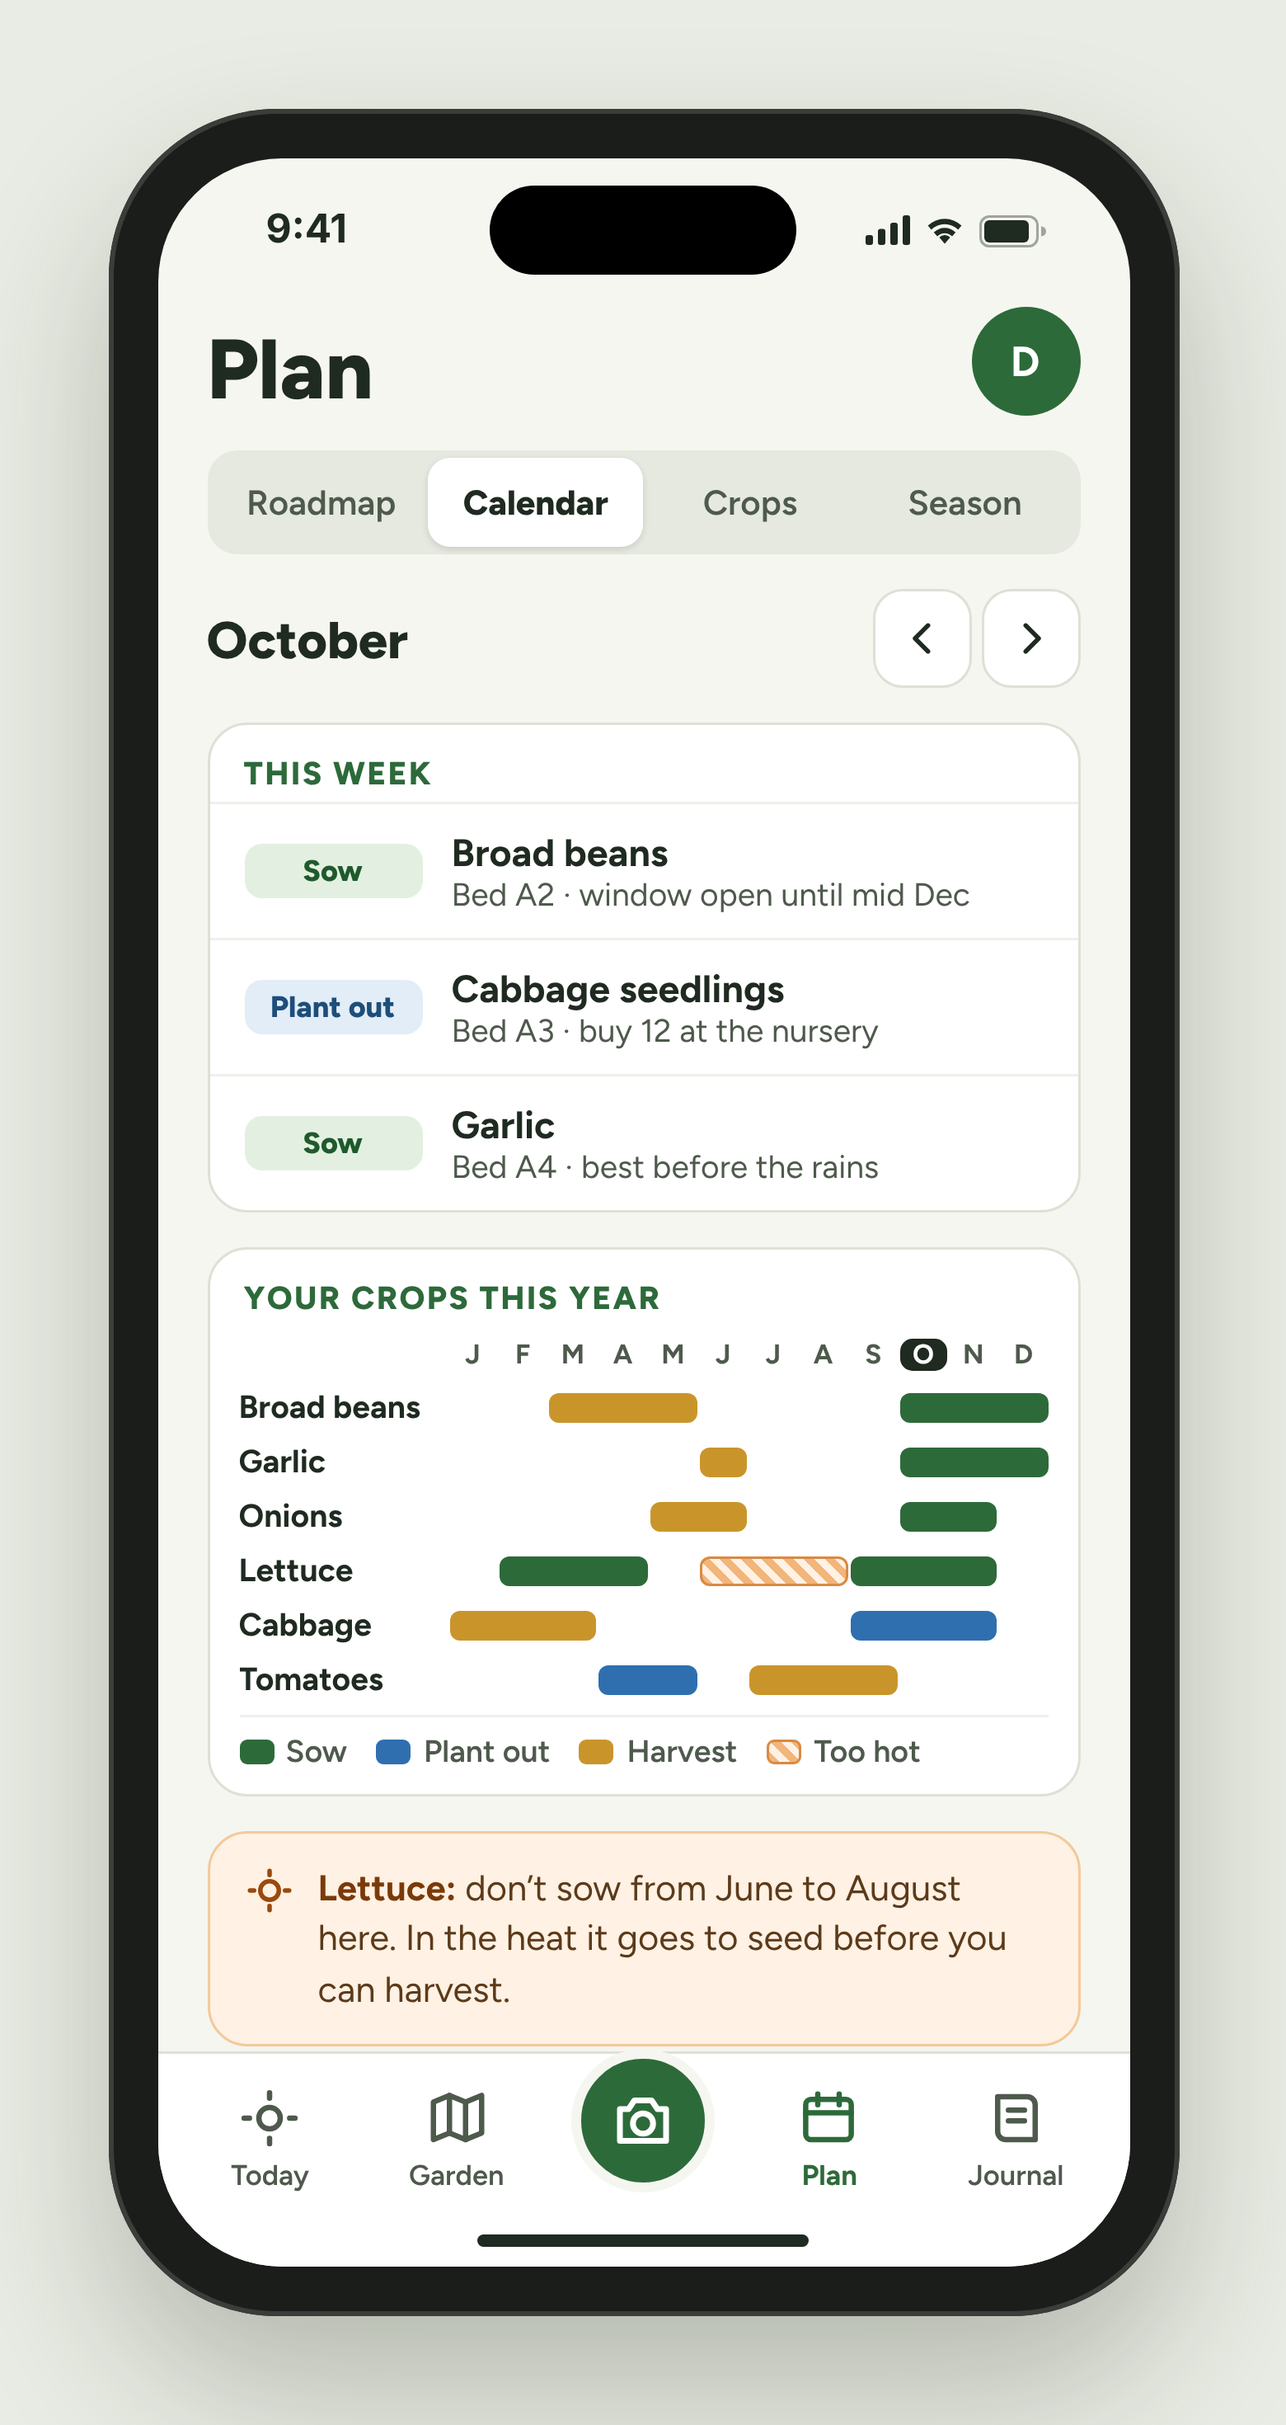
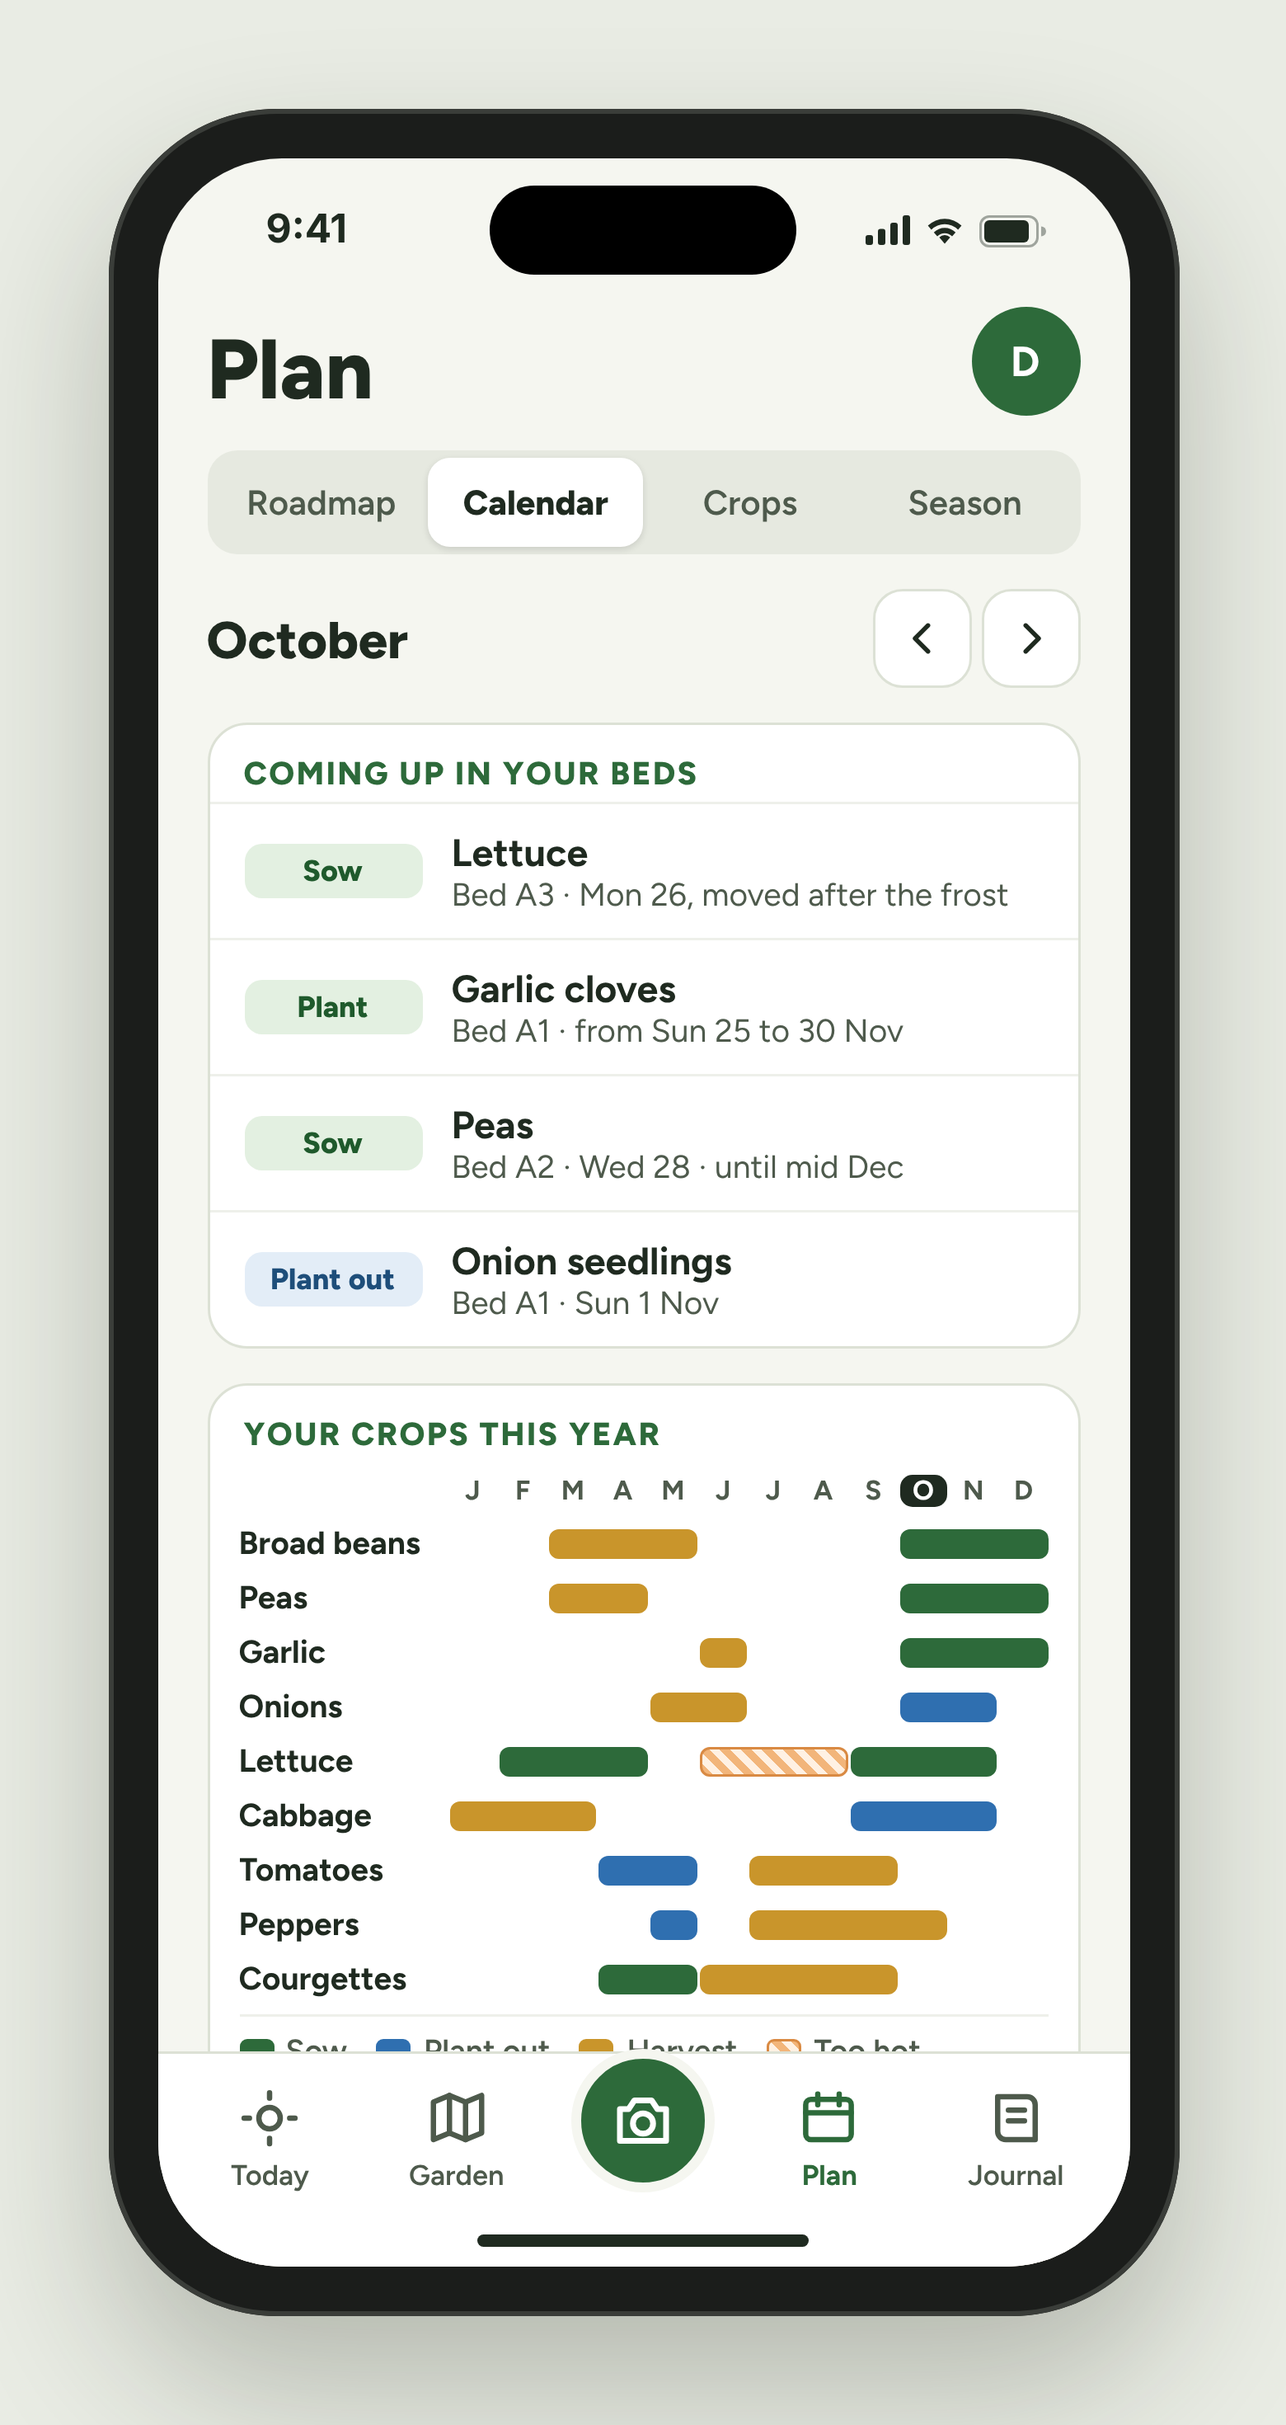
Design E3 planting calendar: coming-up list matches the beds, all chosen crops in the year chart, onions as plant out
Claude-Session: https://claude.ai/code/session_015NynAjU4naPZwzmeuGazot

diff --git a/design/source/E3-planting-calendar-full.html b/design/source/E3-planting-calendar-full.html
@@ -1,0 +1,127 @@
+<!doctype html>
+<html lang="en">
+<head>
+<meta charset="utf-8">
+<title>E3 Planting calendar</title>
+<link href="https://fonts.googleapis.com/css2?family=Figtree:wght@400;500;600;700;800&display=swap" rel="stylesheet">
+<link rel="stylesheet" href="frame.css">
+<style>
+  .content { flex: 1; padding: 6px 20px 120px; display: flex; flex-direction: column; gap: 14px; overflow: hidden; }
+  .head { display: flex; justify-content: space-between; align-items: flex-end; }
+  .head h1 { margin: 0; font-size: 34px; font-weight: 800; line-height: 1.1; }
+  .avatar { width: 44px; height: 44px; border-radius: 999px; background: var(--green); color: #fff; font-size: 17px; font-weight: 700; display: flex; align-items: center; justify-content: center; }
+  .seg { display: grid; grid-template-columns: repeat(4, minmax(0, 1fr)); background: #E6E9E0; border-radius: 12px; padding: 3px; }
+  .seg span { height: 36px; display: flex; align-items: center; justify-content: center; border-radius: 9px; font-size: 14px; font-weight: 600; color: var(--muted); }
+  .seg span.on { background: #fff; color: var(--text); font-weight: 800; box-shadow: 0 1px 3px rgba(0,0,0,.12); }
+  .month { display: flex; align-items: center; justify-content: space-between; }
+  .month b { font-size: 21px; font-weight: 800; }
+  .arrows { display: flex; gap: 4px; }
+  .arrows span { width: 40px; height: 40px; border-radius: 12px; background: #fff; border: 1px solid var(--line); display: flex; align-items: center; justify-content: center; }
+  .card { background: #fff; border: 1px solid var(--line); border-radius: 16px; display: flex; flex-direction: column; }
+  .card .ttl { padding: 12px 14px 4px; font-size: 13px; font-weight: 800; letter-spacing: .06em; text-transform: uppercase; color: var(--green); }
+  .item { display: flex; align-items: center; gap: 12px; padding: 10px 14px; border-top: 1px solid #EEF0EA; }
+  .item:first-of-type { border-top: none; }
+  .kind { font-size: 12px; font-weight: 800; padding: 4px 6px; border-radius: 7px; width: 72px; white-space: nowrap; text-align: center; flex: none; }
+  .sow { background: var(--green-soft); color: var(--green-ink); }
+  .out { background: var(--blue-soft); color: var(--blue-ink); }
+  .item .t { font-size: 15.5px; font-weight: 700; }
+  .item .m { font-size: 13px; color: var(--muted); }
+  .gantt { background: #fff; border: 1px solid var(--line); border-radius: 16px; padding: 12px 12px 10px; display: flex; flex-direction: column; gap: 7px; }
+  .grow { display: grid; grid-template-columns: 84px repeat(12, minmax(0, 1fr)); align-items: center; column-gap: 1px; }
+  .grow .name { font-size: 13px; font-weight: 700; white-space: nowrap; overflow: hidden; }
+  .mh span { font-size: 11px; font-weight: 700; color: var(--muted); text-align: center; }
+  .mh span.now { color: #fff; background: var(--text); border-radius: 5px; }
+  .bar { height: 12px; border-radius: 4px; }
+  .b-sow { background: #2D6A3A; }
+  .b-out { background: #2F6FB0; }
+  .b-har { background: #C9952B; }
+  .b-hot { height: 12px; border-radius: 4px; background: repeating-linear-gradient(45deg, #F2B57A 0 3px, #FFF1E3 3px 6px); border: 1px solid #D98A43; }
+  .legend { display: flex; flex-wrap: wrap; gap: 6px 12px; padding-top: 6px; border-top: 1px solid #EEF0EA; }
+  .legend span { display: flex; align-items: center; gap: 5px; font-size: 12.5px; font-weight: 600; color: var(--muted); }
+  .legend i { width: 14px; height: 10px; border-radius: 3px; display: inline-block; }
+  .tabbar { position: absolute; bottom: 0; left: 0; right: 0; background: #fff; border-top: 1px solid var(--line); padding: 8px 8px 30px; display: grid; grid-template-columns: repeat(5, minmax(0, 1fr)); align-items: end; z-index: 45; }
+  .tab { color: var(--muted); display: flex; flex-direction: column; align-items: center; gap: 3px; font-size: 11.5px; font-weight: 600; min-height: 48px; justify-content: flex-end; }
+  .tab.on { color: var(--green); font-weight: 700; }
+  .cam { display: flex; justify-content: center; }
+  .cam span { width: 58px; height: 58px; border-radius: 999px; background: var(--green); display: flex; align-items: center; justify-content: center; margin-top: -22px; border: 4px solid var(--bg); }
+</style>
+<style>.stage{height:1110px}.phone{height:1050px}.screen{height:1010px}</style>
+</head>
+<body>
+<div class="stage"><div class="phone"><div class="screen">
+  <div class="island"></div>
+  <div class="status">
+    <span>9:41</span>
+    <span class="icons">
+      <svg width="18" height="12" viewBox="0 0 18 12"><rect x="0" y="8" width="3" height="4" rx="1" fill="#1F2A20"/><rect x="5" y="5.5" width="3" height="6.5" rx="1" fill="#1F2A20"/><rect x="10" y="3" width="3" height="9" rx="1" fill="#1F2A20"/><rect x="15" y="0" width="3" height="12" rx="1" fill="#1F2A20"/></svg>
+      <svg width="16" height="12" viewBox="0 0 16 12"><path d="M8 11.5l2.2-2.6a3.2 3.2 0 0 0-4.4 0z" fill="#1F2A20"/><path d="M3.6 6.9a6.3 6.3 0 0 1 8.8 0l-1.4 1.6a4.2 4.2 0 0 0-6 0z" fill="#1F2A20"/><path d="M1.2 4.2a9.7 9.7 0 0 1 13.6 0l-1.4 1.6a7.6 7.6 0 0 0-10.8 0z" fill="#1F2A20"/></svg>
+      <svg width="27" height="13" viewBox="0 0 27 13"><rect x="0.5" y="0.5" width="23" height="12" rx="3.5" fill="none" stroke="#1F2A20" opacity=".4"/><rect x="2" y="2" width="18" height="9" rx="2" fill="#1F2A20"/><path d="M25 4.5v4a2 2 0 0 0 0-4z" fill="#1F2A20" opacity=".4"/></svg>
+    </span>
+  </div>
+
+  <div class="content">
+    <div class="head"><h1>Plan</h1><div class="avatar">D</div></div>
+    <div class="seg"><span>Roadmap</span><span class="on">Calendar</span><span>Crops</span><span>Season</span></div>
+
+    <div class="month">
+      <b>October</b>
+      <div class="arrows">
+        <span aria-label="Previous month"><svg width="18" height="18" viewBox="0 0 24 24" fill="none" stroke="#1F2A20" stroke-width="2.4" stroke-linecap="round" stroke-linejoin="round"><path d="M15 5l-7 7 7 7"/></svg></span>
+        <span aria-label="Next month"><svg width="18" height="18" viewBox="0 0 24 24" fill="none" stroke="#1F2A20" stroke-width="2.4" stroke-linecap="round" stroke-linejoin="round"><path d="M9 5l7 7-7 7"/></svg></span>
+      </div>
+    </div>
+
+    <div class="card">
+      <div class="ttl">Coming up in your beds</div>
+      <div class="item"><span class="kind sow">Sow</span><div><div class="t">Lettuce</div><div class="m">Bed A3 · Mon 26, moved after the frost</div></div></div>
+      <div class="item"><span class="kind sow">Plant</span><div><div class="t">Garlic cloves</div><div class="m">Bed A1 · from Sun 25 to 30 Nov</div></div></div>
+      <div class="item"><span class="kind sow">Sow</span><div><div class="t">Peas</div><div class="m">Bed A2 · Wed 28 · until mid Dec</div></div></div>
+      <div class="item"><span class="kind out">Plant out</span><div><div class="t">Onion seedlings</div><div class="m">Bed A1 · Sun 1 Nov</div></div></div>
+    </div>
+
+    <div class="gantt">
+      <div style="font-size: 13px; font-weight: 800; letter-spacing: .06em; text-transform: uppercase; color: var(--green); padding: 0 2px 2px">Your crops this year</div>
+      <div class="grow mh"><span></span><span>J</span><span>F</span><span>M</span><span>A</span><span>M</span><span>J</span><span>J</span><span>A</span><span>S</span><span class="now">O</span><span>N</span><span>D</span></div>
+      <div class="grow"><span class="name">Broad beans</span>
+        <span class="bar b-har" style="grid-column: 4 / 7"></span><span class="bar b-sow" style="grid-column: 11 / 14"></span></div>
+      <div class="grow"><span class="name">Peas</span>
+        <span class="bar b-har" style="grid-column: 4 / 6"></span><span class="bar b-sow" style="grid-column: 11 / 14"></span></div>
+      <div class="grow"><span class="name">Garlic</span>
+        <span class="bar b-har" style="grid-column: 7 / 8"></span><span class="bar b-sow" style="grid-column: 11 / 14"></span></div>
+      <div class="grow"><span class="name">Onions</span>
+        <span class="bar b-har" style="grid-column: 6 / 8"></span><span class="bar b-out" style="grid-column: 11 / 13"></span></div>
+      <div class="grow"><span class="name">Lettuce</span>
+        <span class="bar b-sow" style="grid-column: 3 / 6"></span><span class="b-hot" style="grid-column: 7 / 10"></span><span class="bar b-sow" style="grid-column: 10 / 13"></span></div>
+      <div class="grow"><span class="name">Cabbage</span>
+        <span class="bar b-har" style="grid-column: 2 / 5"></span><span class="bar b-out" style="grid-column: 10 / 13"></span></div>
+      <div class="grow"><span class="name">Tomatoes</span>
+        <span class="bar b-out" style="grid-column: 5 / 7"></span><span class="bar b-har" style="grid-column: 8 / 11"></span></div>
+      <div class="grow"><span class="name">Peppers</span>
+        <span class="bar b-out" style="grid-column: 6 / 7"></span><span class="bar b-har" style="grid-column: 8 / 12"></span></div>
+      <div class="grow"><span class="name">Courgettes</span>
+        <span class="bar b-sow" style="grid-column: 5 / 7"></span><span class="bar b-har" style="grid-column: 7 / 11"></span></div>
+      <div class="legend">
+        <span><i style="background:#2D6A3A"></i>Sow</span>
+        <span><i style="background:#2F6FB0"></i>Plant out</span>
+        <span><i style="background:#C9952B"></i>Harvest</span>
+        <span><i style="background: repeating-linear-gradient(45deg, #F2B57A 0 3px, #FFF1E3 3px 6px); border: 1px solid #D98A43"></i>Too hot</span>
+      </div>
+    </div>
+
+    <div style="background: var(--orange-soft); border: 1px solid #F3C99A; border-radius: 16px; padding: 12px 14px; display: flex; gap: 10px; align-items: flex-start">
+      <svg width="20" height="20" viewBox="0 0 24 24" fill="none" stroke="#9A4A0C" stroke-width="2.2" stroke-linecap="round" stroke-linejoin="round" style="flex: none; margin-top: 1px"><circle cx="12" cy="12" r="4.5"/><path d="M12 2.5v2M12 19.5v2M2.5 12h2M19.5 12h2"/></svg>
+      <div style="font-size: 14.5px; color: #5C3A1A; line-height: 1.4"><b style="color: #7A3A08">Lettuce:</b> don’t sow from June to August here. In the heat it goes to seed before you can harvest.</div>
+    </div>
+  </div>
+
+  <nav class="tabbar">
+    <div class="tab"><svg width="26" height="26" viewBox="0 0 24 24" fill="none" stroke="currentColor" stroke-width="2" stroke-linecap="round" stroke-linejoin="round"><circle cx="12" cy="12" r="4"/><path d="M12 2.5v2M12 19.5v2M2.5 12h2M19.5 12h2"/></svg>Today</div>
+    <div class="tab"><svg width="26" height="26" viewBox="0 0 24 24" fill="none" stroke="currentColor" stroke-width="2" stroke-linecap="round" stroke-linejoin="round"><path d="M3 6l6-2.5 6 2.5 6-2.5v14l-6 2.5-6-2.5-6 2.5z"/><path d="M9 3.5v14M15 6v14"/></svg>Garden</div>
+    <div class="cam"><span><svg width="28" height="28" viewBox="0 0 24 24" fill="none" stroke="#FFFFFF" stroke-width="2" stroke-linecap="round" stroke-linejoin="round"><path d="M4 8h3l2-3h6l2 3h3v11H4z"/><circle cx="12" cy="13" r="3.5"/></svg></span></div>
+    <div class="tab on"><svg width="26" height="26" viewBox="0 0 24 24" fill="none" stroke="currentColor" stroke-width="2" stroke-linecap="round" stroke-linejoin="round"><rect x="3.5" y="5" width="17" height="15" rx="2"/><path d="M3.5 10h17M8 3v4M16 3v4"/></svg>Plan</div>
+    <div class="tab"><svg width="26" height="26" viewBox="0 0 24 24" fill="none" stroke="currentColor" stroke-width="2" stroke-linecap="round" stroke-linejoin="round"><path d="M5 4h11a3 3 0 0 1 3 3v13H8a3 3 0 0 1-3-3z"/><path d="M9 9h6M9 13h6"/></svg>Journal</div>
+  </nav>
+  <div class="home"></div>
+</div></div></div>
+</body>
+</html>

diff --git a/design/source/E3-planting-calendar.html b/design/source/E3-planting-calendar.html
@@ -71,10 +71,11 @@
     </div>
 
     <div class="card">
-      <div class="ttl">This week</div>
-      <div class="item"><span class="kind sow">Sow</span><div><div class="t">Broad beans</div><div class="m">Bed A2 · window open until mid Dec</div></div></div>
-      <div class="item"><span class="kind out">Plant out</span><div><div class="t">Cabbage seedlings</div><div class="m">Bed A3 · buy 12 at the nursery</div></div></div>
-      <div class="item"><span class="kind sow">Sow</span><div><div class="t">Garlic</div><div class="m">Bed A4 · best before the rains</div></div></div>
+      <div class="ttl">Coming up in your beds</div>
+      <div class="item"><span class="kind sow">Sow</span><div><div class="t">Lettuce</div><div class="m">Bed A3 · Mon 26, moved after the frost</div></div></div>
+      <div class="item"><span class="kind sow">Plant</span><div><div class="t">Garlic cloves</div><div class="m">Bed A1 · from Sun 25 to 30 Nov</div></div></div>
+      <div class="item"><span class="kind sow">Sow</span><div><div class="t">Peas</div><div class="m">Bed A2 · Wed 28 · until mid Dec</div></div></div>
+      <div class="item"><span class="kind out">Plant out</span><div><div class="t">Onion seedlings</div><div class="m">Bed A1 · Sun 1 Nov</div></div></div>
     </div>
 
     <div class="gantt">
@@ -82,16 +83,22 @@
       <div class="grow mh"><span></span><span>J</span><span>F</span><span>M</span><span>A</span><span>M</span><span>J</span><span>J</span><span>A</span><span>S</span><span class="now">O</span><span>N</span><span>D</span></div>
       <div class="grow"><span class="name">Broad beans</span>
         <span class="bar b-har" style="grid-column: 4 / 7"></span><span class="bar b-sow" style="grid-column: 11 / 14"></span></div>
+      <div class="grow"><span class="name">Peas</span>
+        <span class="bar b-har" style="grid-column: 4 / 6"></span><span class="bar b-sow" style="grid-column: 11 / 14"></span></div>
       <div class="grow"><span class="name">Garlic</span>
         <span class="bar b-har" style="grid-column: 7 / 8"></span><span class="bar b-sow" style="grid-column: 11 / 14"></span></div>
       <div class="grow"><span class="name">Onions</span>
-        <span class="bar b-har" style="grid-column: 6 / 8"></span><span class="bar b-sow" style="grid-column: 11 / 13"></span></div>
+        <span class="bar b-har" style="grid-column: 6 / 8"></span><span class="bar b-out" style="grid-column: 11 / 13"></span></div>
       <div class="grow"><span class="name">Lettuce</span>
         <span class="bar b-sow" style="grid-column: 3 / 6"></span><span class="b-hot" style="grid-column: 7 / 10"></span><span class="bar b-sow" style="grid-column: 10 / 13"></span></div>
       <div class="grow"><span class="name">Cabbage</span>
         <span class="bar b-har" style="grid-column: 2 / 5"></span><span class="bar b-out" style="grid-column: 10 / 13"></span></div>
       <div class="grow"><span class="name">Tomatoes</span>
         <span class="bar b-out" style="grid-column: 5 / 7"></span><span class="bar b-har" style="grid-column: 8 / 11"></span></div>
+      <div class="grow"><span class="name">Peppers</span>
+        <span class="bar b-out" style="grid-column: 6 / 7"></span><span class="bar b-har" style="grid-column: 8 / 12"></span></div>
+      <div class="grow"><span class="name">Courgettes</span>
+        <span class="bar b-sow" style="grid-column: 5 / 7"></span><span class="bar b-har" style="grid-column: 7 / 11"></span></div>
       <div class="legend">
         <span><i style="background:#2D6A3A"></i>Sow</span>
         <span><i style="background:#2F6FB0"></i>Plant out</span>
